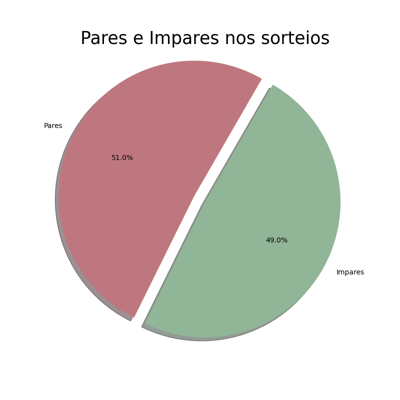
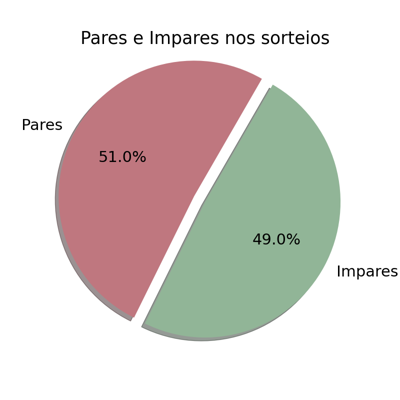
ajustes grafico Pie

diff --git a/analiseMatematica.py b/analiseMatematica.py
@@ -178,17 +178,11 @@ class Graficos():
         cores = ['#bf777f', '#91b597']
         nomes = ['Pares', 'Impares']
         valores = [self.qtPar, self.qtImpar]
-
         fig, ax =  plt.subplots(figsize=(8,8))
         explode = (0.1, 0)
-
-        ax.pie(valores, labels=nomes, autopct='%.1f%%', shadow= True, explode=explode, colors=cores, startangle=60, radius=1.1)
+        ax.pie(valores, labels=nomes, autopct='%.1f%%', shadow= True, explode=explode, colors=cores, startangle=60, radius=1.1, textprops={'fontsize': 22})
         ax.set_title('Pares e Impares nos sorteios' , fontsize = 25)
         fit = plt.savefig("graficos/pizzaPI.png")
-
-
-
-
 
 #####  MAIN  - Testes ######
 if  __name__ == '__main__':

diff --git a/telas.py b/telas.py
@@ -423,7 +423,7 @@ class Terceira():
             w.create_image(0,0, image=gra01) # chama imagem no canvas
             w.image = gra01 # gera o w imagem para inserção no Label
             grafico = Label(self.frame1, image=w.image) #Label que vai receber imagem acima 
-            grafico.place(relx=0.01, rely=0.29, relwidth=0.29, relheight=0.62) #Posicionamento do Label
+            grafico.place(relx=0.01, rely=0.29, relwidth=0.32, relheight=0.62) #Posicionamento do Label
         
 
 
